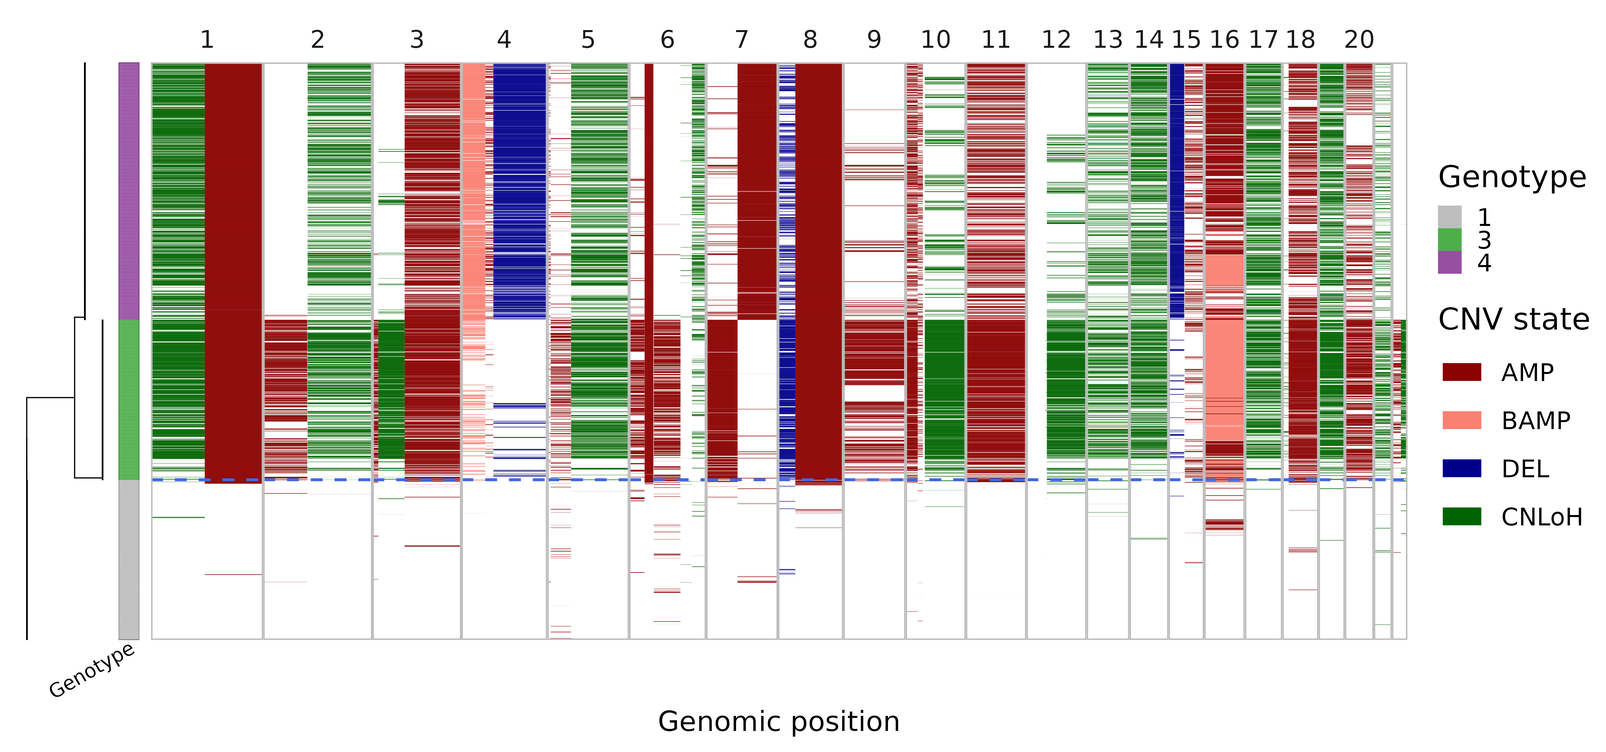
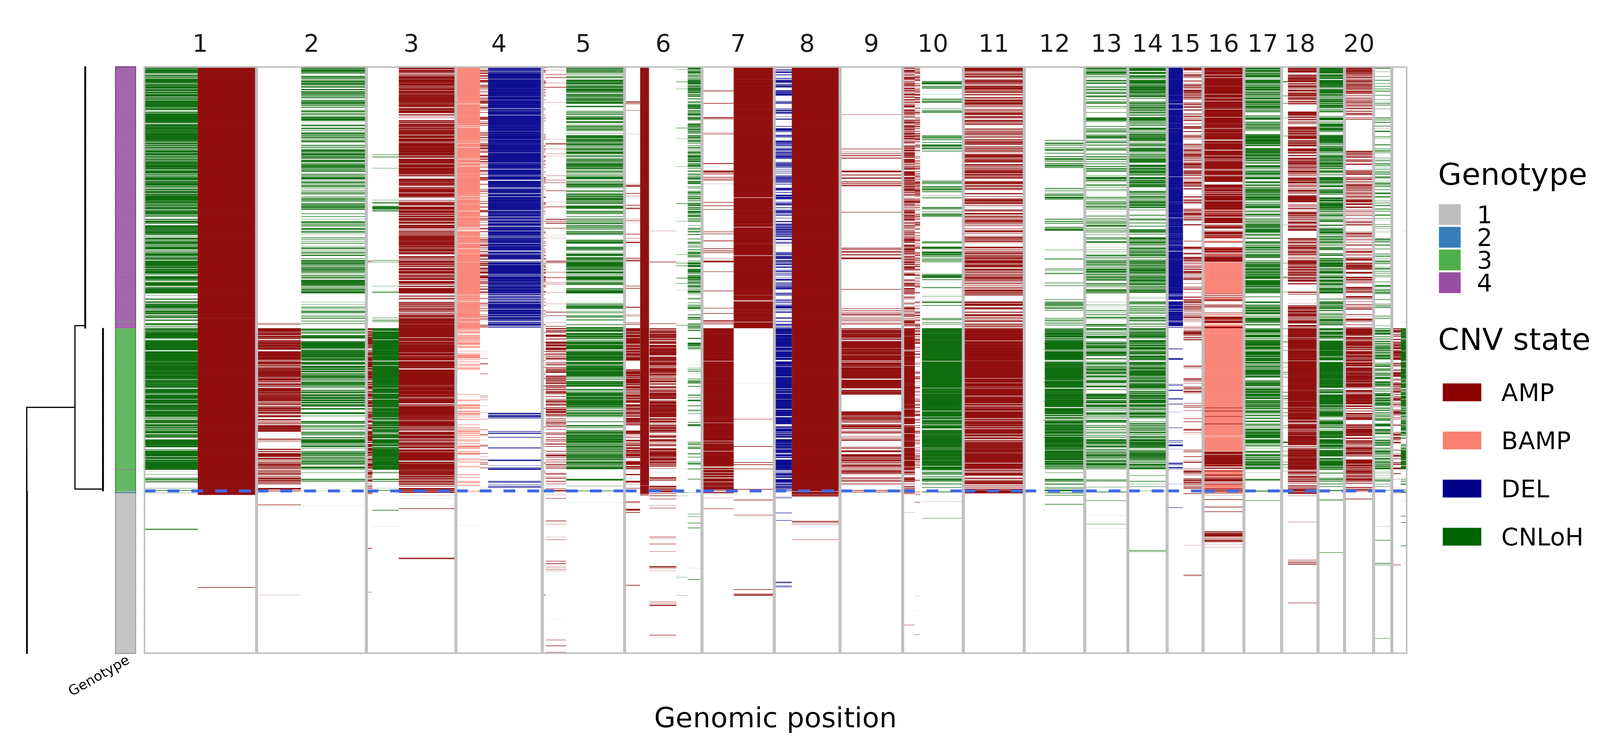
adding cutree

diff --git a/docs/articles/results.html b/docs/articles/results.html
@@ -120,42 +120,62 @@
 <span>  p_min <span class="op">=</span> <span class="fl">0.9</span>,</span>
 <span>  pal_clone <span class="op">=</span> <span class="va">mypal</span></span>
 <span><span class="op">)</span></span></code></pre></div>
-<p><img src="results_files/figure-html/unnamed-chunk-5-1.png" width="2400"> In this visualization, the single-cell phylogeny (left) is juxtaposed with a heatmap of single-cell CNV calls (right). The CNV calls are colored by the type of alterations (AMP, amplification, BAMP, balanced amplification, DEL, deletion, CNLoH, copy-neutral loss of heterozygosity). The colorbar in-between differentiates the distinct genetic populations (genotype). The dashed blue line separates the predicted tumor versus normal cells. This tells us that the dataset mainly consists of three cell populations, a normal population (gray) and two tumor subclones (green and yellow).</p>
+<p><img src="results_files/figure-html/unnamed-chunk-5-1.png" width="2400"> In this visualization, the single-cell phylogeny (left) is juxtaposed with a heatmap of single-cell CNV calls (right). The CNV calls are colored by the type of alterations (AMP, amplification, BAMP, balanced amplification, DEL, deletion, CNLoH, copy-neutral loss of heterozygosity). The colorbar in-between differentiates the distinct genetic populations (genotype). The dashed blue line separates the predicted tumor versus normal cells. This tells us that the dataset mainly consists of three cell populations, a normal population (gray) and two tumor subclones (green and purple).</p>
+<div class="section level3">
+<h3 id="refine-subclones-on-the-phylogeny">Refine subclones on the phylogeny<a class="anchor" aria-label="anchor" href="#refine-subclones-on-the-phylogeny"></a>
+</h3>
+<p>Note that the number of subclones determined by the initial run parameters in <code>run_numbat</code> can be re-adjusted using <code>nb$cutree()</code>:</p>
+<div class="sourceCode" id="cb5"><pre class="downlit sourceCode r">
+<code class="sourceCode R"><span><span class="va">plots</span> <span class="op">=</span> <span class="fu"><a href="https://rdrr.io/r/base/lapply.html" class="external-link">lapply</a></span><span class="op">(</span></span>
+<span>    <span class="fl">1</span><span class="op">:</span><span class="fl">4</span>,</span>
+<span>    <span class="kw">function</span><span class="op">(</span><span class="va">k</span><span class="op">)</span> <span class="op">{</span></span>
+<span>        <span class="va">nb</span><span class="op">$</span><span class="fu">cutree</span><span class="op">(</span>n_cut <span class="op">=</span> <span class="va">k</span><span class="op">)</span></span>
+<span>        <span class="va">nb</span><span class="op">$</span><span class="fu">plot_phylo_heatmap</span><span class="op">(</span><span class="op">)</span> <span class="op">+</span> <span class="fu"><a href="https://ggplot2.tidyverse.org/reference/labs.html" class="external-link">ggtitle</a></span><span class="op">(</span><span class="fu"><a href="https://rdrr.io/r/base/paste.html" class="external-link">paste0</a></span><span class="op">(</span><span class="st">'n_cut='</span>, <span class="va">k</span><span class="op">)</span><span class="op">)</span></span>
+<span>    <span class="op">}</span></span>
+<span><span class="op">)</span></span>
+<span></span>
+<span><span class="fu"><a href="https://patchwork.data-imaginist.com/reference/wrap_plots.html" class="external-link">wrap_plots</a></span><span class="op">(</span><span class="va">plots</span><span class="op">)</span></span></code></pre></div>
+<p><img src="results_files/figure-html/unnamed-chunk-6-1.png" width="2500"></p>
+<p>In <code>cutree</code> one can either specify <code>n_cut</code> or <code>max_cost</code>, which work similarly as <code>k</code> and <code>h</code> in <code><a href="https://rdrr.io/r/stats/cutree.html" class="external-link">stats::cutree</a></code>. Note that <code>n</code> cuts should result in <code>n+1</code> clones (the top-level normal diploid clone is always included). First cut should separate out the tumor cells as a single clone, second cut gives two tumor subclones, and so on. Alternatively, one can specify a <code>max_cost</code>, which is the maximum likelihood cost threshold with which to reduce the phylogeny (higher <code>max_cost</code> leads to fewer clones).</p>
+<div class="sourceCode" id="cb6"><pre class="downlit sourceCode r">
+<code class="sourceCode R"><span><span class="co"># restore to original number of cuts</span></span>
+<span><span class="va">nb</span><span class="op">$</span><span class="fu">cutree</span><span class="op">(</span>n_cut <span class="op">=</span> <span class="fl">3</span><span class="op">)</span></span></code></pre></div>
+</div>
 </div>
 <div class="section level2">
 <h2 id="consensus-copy-number-segments">Consensus copy number segments<a class="anchor" aria-label="anchor" href="#consensus-copy-number-segments"></a>
 </h2>
 <p>Let’s take a look at the consensus segments.</p>
-<div class="sourceCode" id="cb5"><pre class="downlit sourceCode r">
+<div class="sourceCode" id="cb7"><pre class="downlit sourceCode r">
 <code class="sourceCode R"><span><span class="va">nb</span><span class="op">$</span><span class="fu">plot_consensus</span><span class="op">(</span><span class="op">)</span></span></code></pre></div>
-<p><img src="results_files/figure-html/unnamed-chunk-6-1.png" width="4200"></p>
+<p><img src="results_files/figure-html/unnamed-chunk-8-1.png" width="4200"></p>
 </div>
 <div class="section level2">
 <h2 id="bulk-cnv-profiles">Bulk CNV profiles<a class="anchor" aria-label="anchor" href="#bulk-cnv-profiles"></a>
 </h2>
 <p>We can also visualize these CNV events in pseudobulks where the data is more rich, aggregating cells by clone:</p>
-<div class="sourceCode" id="cb6"><pre class="downlit sourceCode r">
+<div class="sourceCode" id="cb8"><pre class="downlit sourceCode r">
 <code class="sourceCode R"><span><span class="va">nb</span><span class="op">$</span><span class="va">bulk_clones</span> <span class="op"><a href="https://magrittr.tidyverse.org/reference/pipe.html" class="external-link">%&gt;%</a></span> </span>
 <span>  <span class="fu"><a href="https://dplyr.tidyverse.org/reference/filter.html" class="external-link">filter</a></span><span class="op">(</span><span class="va">n_cells</span> <span class="op">&gt;</span> <span class="fl">50</span><span class="op">)</span> <span class="op"><a href="https://magrittr.tidyverse.org/reference/pipe.html" class="external-link">%&gt;%</a></span></span>
 <span>  <span class="fu"><a href="../reference/plot_bulks.html">plot_bulks</a></span><span class="op">(</span></span>
 <span>    min_LLR <span class="op">=</span> <span class="fl">10</span>, <span class="co"># filtering CNVs by evidence</span></span>
 <span>    legend <span class="op">=</span> <span class="cn">TRUE</span></span>
 <span>  <span class="op">)</span></span></code></pre></div>
-<p><img src="results_files/figure-html/unnamed-chunk-7-1.png" width="3900"></p>
+<p><img src="results_files/figure-html/unnamed-chunk-9-1.png" width="3900"></p>
 </div>
 <div class="section level2">
 <h2 id="single-cell-cnv-calls">Single-cell CNV calls<a class="anchor" aria-label="anchor" href="#single-cell-cnv-calls"></a>
 </h2>
 <p>Numbat probabilistically evaluates the presence/absence of CNVs in single cells. The cell-level CNV posteriors are stored in the <code>nb$joint_post</code> dataframe:</p>
-<div class="sourceCode" id="cb7"><pre class="downlit sourceCode r">
+<div class="sourceCode" id="cb9"><pre class="downlit sourceCode r">
 <code class="sourceCode R"><span><span class="fu"><a href="https://rdrr.io/r/utils/head.html" class="external-link">head</a></span><span class="op">(</span><span class="va">nb</span><span class="op">$</span><span class="va">joint_post</span><span class="op">)</span> <span class="op"><a href="https://magrittr.tidyverse.org/reference/pipe.html" class="external-link">%&gt;%</a></span> <span class="fu"><a href="https://dplyr.tidyverse.org/reference/select.html" class="external-link">select</a></span><span class="op">(</span><span class="va">cell</span>, <span class="va">CHROM</span>, <span class="va">seg</span>, <span class="va">cnv_state</span>, <span class="va">p_cnv</span>, <span class="va">p_cnv_x</span>, <span class="va">p_cnv_y</span><span class="op">)</span></span></code></pre></div>
 <pre><code><span><span class="co">##                        cell CHROM seg cnv_state        p_cnv     p_cnv_x</span></span>
 <span><span class="co">## 1: TNBC1_AAACCTGCACCTTGTC-1     1  1b       amp 0.9999999997 1.000000000</span></span>
 <span><span class="co">## 2: TNBC1_AAACCTGCACCTTGTC-1     2  2a       amp 0.0002288397 0.001172894</span></span>
 <span><span class="co">## 3: TNBC1_AAACCTGCACCTTGTC-1     3  3a       amp 0.0522751360 0.052273344</span></span>
-<span><span class="co">## 4: TNBC1_AAACCTGCACCTTGTC-1     3  3c       amp 0.9147696619 0.982278728</span></span>
+<span><span class="co">## 4: TNBC1_AAACCTGCACCTTGTC-1     3  3c       amp 0.9147696618 0.982278728</span></span>
 <span><span class="co">## 5: TNBC1_AAACCTGCACCTTGTC-1     4  4b       amp 0.8999658266 0.845619643</span></span>
-<span><span class="co">## 6: TNBC1_AAACCTGCACCTTGTC-1     5  5a       amp 0.8070027728 0.778074329</span></span>
+<span><span class="co">## 6: TNBC1_AAACCTGCACCTTGTC-1     5  5a       amp 0.8070027725 0.778074328</span></span>
 <span><span class="co">##       p_cnv_y</span></span>
 <span><span class="co">## 1: 0.03844235</span></span>
 <span><span class="co">## 2: 0.09821435</span></span>
@@ -164,7 +184,7 @@
 <span><span class="co">## 5: 0.61862288</span></span>
 <span><span class="co">## 6: 0.53344303</span></span></code></pre>
 <p>which contains cell-level information on specific CNV segments (<code>seg</code>), their alteration type (<code>cnv_state</code>), the joint posterior probability of the CNV (<code>p_cnv</code>), the expression-based posterior (<code>p_cnv_x</code>), and the allele-based posterior (<code>p_cnv_y</code>). We can visualize the event-specific posteriors in a expression-based tSNE embedding:</p>
-<div class="sourceCode" id="cb9"><pre class="downlit sourceCode r">
+<div class="sourceCode" id="cb11"><pre class="downlit sourceCode r">
 <code class="sourceCode R"><span><span class="va">plist</span> <span class="op">=</span> <span class="fu"><a href="https://rdrr.io/r/base/list.html" class="external-link">list</a></span><span class="op">(</span><span class="op">)</span></span>
 <span><span class="va">muts</span> <span class="op">=</span> <span class="fu"><a href="https://rdrr.io/r/base/c.html" class="external-link">c</a></span><span class="op">(</span><span class="st">'1a'</span>, <span class="st">'3b'</span>, <span class="st">'22b'</span><span class="op">)</span></span>
 <span><span class="va">cnv_type</span> <span class="op">=</span> <span class="va">nb</span><span class="op">$</span><span class="va">joint_post</span> <span class="op"><a href="https://magrittr.tidyverse.org/reference/pipe.html" class="external-link">%&gt;%</a></span> <span class="fu"><a href="https://dplyr.tidyverse.org/reference/distinct.html" class="external-link">distinct</a></span><span class="op">(</span><span class="va">seg</span>, <span class="va">cnv_state</span><span class="op">)</span> <span class="op"><a href="https://magrittr.tidyverse.org/reference/pipe.html" class="external-link">%&gt;%</a></span> <span class="op">{</span><span class="fu"><a href="https://rdrr.io/r/stats/setNames.html" class="external-link">setNames</a></span><span class="op">(</span><span class="va">.</span><span class="op">$</span><span class="va">cnv_state</span>, <span class="va">.</span><span class="op">$</span><span class="va">seg</span><span class="op">)</span><span class="op">}</span></span>
@@ -185,30 +205,30 @@
 <span>    <span class="fu"><a href="https://ggplot2.tidyverse.org/reference/scale_gradient.html" class="external-link">scale_color_gradient2</a></span><span class="op">(</span>low <span class="op">=</span> <span class="st">'royalblue'</span>, mid <span class="op">=</span> <span class="st">'white'</span>, high <span class="op">=</span> <span class="st">'red3'</span>, midpoint <span class="op">=</span> <span class="fl">0.5</span>, limits <span class="op">=</span> <span class="fu"><a href="https://rdrr.io/r/base/c.html" class="external-link">c</a></span><span class="op">(</span><span class="fl">0</span>,<span class="fl">1</span><span class="op">)</span>, name <span class="op">=</span> <span class="st">'Posterior'</span><span class="op">)</span></span>
 <span><span class="op">}</span></span>
 <span><span class="fu"><a href="https://patchwork.data-imaginist.com/reference/wrap_plots.html" class="external-link">wrap_plots</a></span><span class="op">(</span><span class="va">plist</span>, guides <span class="op">=</span> <span class="st">'collect'</span><span class="op">)</span></span></code></pre></div>
-<p><img src="results_files/figure-html/unnamed-chunk-9-1.png" width="2700"></p>
+<p><img src="results_files/figure-html/unnamed-chunk-11-1.png" width="2700"></p>
 </div>
 <div class="section level2">
 <h2 id="clonal-assignments">Clonal assignments<a class="anchor" aria-label="anchor" href="#clonal-assignments"></a>
 </h2>
 <p>Numbat aggregates signals across subclone-specific CNVs to probabilistically assign cells to subclones. The information regarding clonal assignments are contained in the <code>nb$clone_post</code> dataframe.</p>
-<div class="sourceCode" id="cb10"><pre class="downlit sourceCode r">
-<code class="sourceCode R"><span><span class="va">nb</span><span class="op">$</span><span class="va">clone_post</span> <span class="op"><a href="https://magrittr.tidyverse.org/reference/pipe.html" class="external-link">%&gt;%</a></span> <span class="fu"><a href="https://rdrr.io/r/utils/head.html" class="external-link">head</a></span><span class="op">(</span><span class="op">)</span> <span class="op"><a href="https://magrittr.tidyverse.org/reference/pipe.html" class="external-link">%&gt;%</a></span> <span class="fu"><a href="https://dplyr.tidyverse.org/reference/select.html" class="external-link">select</a></span><span class="op">(</span><span class="va">cell</span>, <span class="va">clone_opt</span>, <span class="va">p_1</span>, <span class="va">p_2</span>, <span class="va">p_3</span>, <span class="va">p_4</span><span class="op">)</span></span></code></pre></div>
-<pre><code><span><span class="co">##                        cell clone_opt           p_1          p_2          p_3</span></span>
-<span><span class="co">## 1: TNBC1_AAACCTGCACCTTGTC-1         4  1.162495e-72 2.105425e-20 3.478936e-29</span></span>
-<span><span class="co">## 2: TNBC1_AAACGGGAGTCCTCCT-1         1  1.000000e+00 5.814741e-51 5.920463e-95</span></span>
-<span><span class="co">## 3: TNBC1_AAACGGGTCCAGAGGA-1         4 2.434561e-100 2.175022e-14 2.085718e-30</span></span>
-<span><span class="co">## 4: TNBC1_AAAGATGCAGTTTACG-1         3  2.020088e-23 8.164920e-04 9.913458e-01</span></span>
-<span><span class="co">## 5: TNBC1_AAAGCAACAGGAATGC-1         4  9.546322e-64 4.989037e-11 1.657378e-31</span></span>
-<span><span class="co">## 6: TNBC1_AAAGCAATCGGAATCT-1         3  1.516589e-99 8.466806e-33 1.000000e+00</span></span>
-<span><span class="co">##             p_4</span></span>
-<span><span class="co">## 1: 1.000000e+00</span></span>
-<span><span class="co">## 2: 8.821035e-66</span></span>
-<span><span class="co">## 3: 1.000000e+00</span></span>
-<span><span class="co">## 4: 7.837745e-03</span></span>
-<span><span class="co">## 5: 1.000000e+00</span></span>
-<span><span class="co">## 6: 2.457592e-29</span></span></code></pre>
-<p>Here <code>clone_opt</code> denotes the maximum likelihood assignment of a cell to a specific clone. <code>p_{1..4}</code> are the detailed breakdown of the posterior probability that the cell belongs to each clone, respectively. Let’s visualize the clonal decomposition in a tSNE embedding. Note that clone 1 is always the normal cells.</p>
 <div class="sourceCode" id="cb12"><pre class="downlit sourceCode r">
+<code class="sourceCode R"><span><span class="va">nb</span><span class="op">$</span><span class="va">clone_post</span> <span class="op"><a href="https://magrittr.tidyverse.org/reference/pipe.html" class="external-link">%&gt;%</a></span> <span class="fu"><a href="https://rdrr.io/r/utils/head.html" class="external-link">head</a></span><span class="op">(</span><span class="op">)</span> <span class="op"><a href="https://magrittr.tidyverse.org/reference/pipe.html" class="external-link">%&gt;%</a></span> <span class="fu"><a href="https://dplyr.tidyverse.org/reference/select.html" class="external-link">select</a></span><span class="op">(</span><span class="va">cell</span>, <span class="va">clone_opt</span>, <span class="va">p_1</span>, <span class="va">p_2</span>, <span class="va">p_3</span>, <span class="va">p_4</span><span class="op">)</span></span></code></pre></div>
+<pre><code><span><span class="co">##                       cell clone_opt           p_1          p_2          p_3</span></span>
+<span><span class="co">## 1 TNBC1_AAACCTGCACCTTGTC-1         4  1.162495e-72 2.105425e-20 3.478936e-29</span></span>
+<span><span class="co">## 2 TNBC1_AAACGGGAGTCCTCCT-1         1  1.000000e+00 5.814741e-51 5.920463e-95</span></span>
+<span><span class="co">## 3 TNBC1_AAACGGGTCCAGAGGA-1         4 2.434561e-100 2.175022e-14 2.085718e-30</span></span>
+<span><span class="co">## 4 TNBC1_AAAGATGCAGTTTACG-1         3  2.020088e-23 8.164920e-04 9.913458e-01</span></span>
+<span><span class="co">## 5 TNBC1_AAAGCAACAGGAATGC-1         4  9.546324e-64 4.989037e-11 1.657378e-31</span></span>
+<span><span class="co">## 6 TNBC1_AAAGCAATCGGAATCT-1         3  1.516589e-99 8.466806e-33 1.000000e+00</span></span>
+<span><span class="co">##            p_4</span></span>
+<span><span class="co">## 1 1.000000e+00</span></span>
+<span><span class="co">## 2 8.821034e-66</span></span>
+<span><span class="co">## 3 1.000000e+00</span></span>
+<span><span class="co">## 4 7.837745e-03</span></span>
+<span><span class="co">## 5 1.000000e+00</span></span>
+<span><span class="co">## 6 2.457592e-29</span></span></code></pre>
+<p>Here <code>clone_opt</code> denotes the maximum likelihood assignment of a cell to a specific clone. <code>p_{1..4}</code> are the detailed breakdown of the posterior probability that the cell belongs to each clone, respectively. Let’s visualize the clonal decomposition in a tSNE embedding. Note that clone 1 is always the normal cells.</p>
+<div class="sourceCode" id="cb14"><pre class="downlit sourceCode r">
 <code class="sourceCode R"><span><span class="va">pagoda</span><span class="op">$</span><span class="fu">plotEmbedding</span><span class="op">(</span></span>
 <span>    alpha<span class="op">=</span><span class="fl">0.8</span>,</span>
 <span>    size<span class="op">=</span><span class="fl">1</span>, </span>
@@ -219,13 +239,13 @@
 <span>    title <span class="op">=</span> <span class="st">'Genotypes'</span>,</span>
 <span>    pal <span class="op">=</span> <span class="va">mypal</span></span>
 <span><span class="op">)</span></span></code></pre></div>
-<p><img src="results_files/figure-html/unnamed-chunk-11-1.png" width="900"></p>
+<p><img src="results_files/figure-html/unnamed-chunk-13-1.png" width="900"></p>
 </div>
 <div class="section level2">
 <h2 id="tumor-versus-normal-probability">Tumor versus normal probability<a class="anchor" aria-label="anchor" href="#tumor-versus-normal-probability"></a>
 </h2>
 <p>Combining evidence from all CNVs, Numbat derives an aneuploidy probability for each cell to distinguish tumor versus normal cells. We can visualize the posterior aneuploidy probability based on expression evidence only, allele evidence only, and jointly:</p>
-<div class="sourceCode" id="cb13"><pre class="downlit sourceCode r">
+<div class="sourceCode" id="cb15"><pre class="downlit sourceCode r">
 <code class="sourceCode R"><span><span class="va">p_joint</span> <span class="op">=</span> <span class="va">pagoda</span><span class="op">$</span><span class="fu">plotEmbedding</span><span class="op">(</span></span>
 <span>    alpha<span class="op">=</span><span class="fl">0.8</span>,</span>
 <span>    size<span class="op">=</span><span class="fl">1</span>, </span>
@@ -258,13 +278,13 @@
 <span><span class="op">)</span> <span class="op">+</span></span>
 <span><span class="fu"><a href="https://ggplot2.tidyverse.org/reference/scale_gradient.html" class="external-link">scale_color_gradient2</a></span><span class="op">(</span>low <span class="op">=</span> <span class="st">'royalblue'</span>, mid <span class="op">=</span> <span class="st">'white'</span>, high <span class="op">=</span> <span class="st">'red3'</span>, midpoint <span class="op">=</span> <span class="fl">0.5</span>, name <span class="op">=</span> <span class="st">'Posterior'</span><span class="op">)</span></span>
 <span><span class="op">(</span><span class="va">p_expr</span> <span class="op">|</span> <span class="va">p_allele</span> <span class="op">|</span> <span class="va">p_joint</span><span class="op">)</span> <span class="op">+</span> <span class="fu"><a href="https://patchwork.data-imaginist.com/reference/plot_layout.html" class="external-link">plot_layout</a></span><span class="op">(</span>guides <span class="op">=</span> <span class="st">'collect'</span><span class="op">)</span></span></code></pre></div>
-<p><img src="results_files/figure-html/unnamed-chunk-12-1.png" width="2700"> Both expression and allele signal clearly separate the tumor and normal cells.</p>
+<p><img src="results_files/figure-html/unnamed-chunk-14-1.png" width="2700"> Both expression and allele signal clearly separate the tumor and normal cells.</p>
 </div>
 <div class="section level2">
 <h2 id="tumor-phylogeny">Tumor phylogeny<a class="anchor" aria-label="anchor" href="#tumor-phylogeny"></a>
 </h2>
 <p>Let’s take a closer look at the inferred single cell phylogeny and where the mutations occurred.</p>
-<div class="sourceCode" id="cb14"><pre class="downlit sourceCode r">
+<div class="sourceCode" id="cb16"><pre class="downlit sourceCode r">
 <code class="sourceCode R"><span><span class="va">nb</span><span class="op">$</span><span class="fu">plot_sc_tree</span><span class="op">(</span></span>
 <span>  label_size <span class="op">=</span> <span class="fl">3</span>, </span>
 <span>  branch_width <span class="op">=</span> <span class="fl">0.5</span>, </span>
@@ -272,10 +292,10 @@
 <span>  pal_clone <span class="op">=</span> <span class="va">mypal</span>, </span>
 <span>  tip <span class="op">=</span> <span class="cn">TRUE</span></span>
 <span><span class="op">)</span></span></code></pre></div>
-<p><img src="results_files/figure-html/unnamed-chunk-13-1.png" width="1800"> The mutational history can also be represented on the clone level, where cells with the same genotype are aggregated into one node.</p>
-<div class="sourceCode" id="cb15"><pre class="downlit sourceCode r">
+<p><img src="results_files/figure-html/unnamed-chunk-15-1.png" width="1800"> The mutational history can also be represented on the clone level, where cells with the same genotype are aggregated into one node.</p>
+<div class="sourceCode" id="cb17"><pre class="downlit sourceCode r">
 <code class="sourceCode R"><span><span class="va">nb</span><span class="op">$</span><span class="fu">plot_mut_history</span><span class="op">(</span>pal <span class="op">=</span> <span class="va">mypal</span><span class="op">)</span></span></code></pre></div>
-<p><img src="results_files/figure-html/unnamed-chunk-14-1.png" width="1800"></p>
+<p><img src="results_files/figure-html/unnamed-chunk-16-1.png" width="1800"></p>
 </div>
   </main><aside class="col-md-3"><nav id="toc"><h2>On this page</h2>
     </nav></aside>

diff --git a/docs/reference/get_gtree.html b/docs/reference/get_gtree.html
@@ -1,5 +1,17 @@
 <!DOCTYPE html>
-<!-- Generated by pkgdown: do not edit by hand --><html lang="en"><head><meta http-equiv="Content-Type" content="text/html; charset=UTF-8"><meta charset="utf-8"><meta http-equiv="X-UA-Compatible" content="IE=edge"><meta name="viewport" content="width=device-width, initial-scale=1, shrink-to-fit=no"><meta name="description" content="Get a tidygraph tree with simplified mutational history"><title>Get a tidygraph tree with simplified mutational history — get_gtree • numbat</title><!-- favicons --><link rel="icon" type="image/png" sizes="16x16" href="../favicon-16x16.png"><link rel="icon" type="image/png" sizes="32x32" href="../favicon-32x32.png"><link rel="apple-touch-icon" type="image/png" sizes="180x180" href="../apple-touch-icon.png"><link rel="apple-touch-icon" type="image/png" sizes="120x120" href="../apple-touch-icon-120x120.png"><link rel="apple-touch-icon" type="image/png" sizes="76x76" href="../apple-touch-icon-76x76.png"><link rel="apple-touch-icon" type="image/png" sizes="60x60" href="../apple-touch-icon-60x60.png"><script src="../deps/jquery-3.6.0/jquery-3.6.0.min.js"></script><meta name="viewport" content="width=device-width, initial-scale=1, shrink-to-fit=no"><link href="../deps/bootstrap-5.2.2/bootstrap.min.css" rel="stylesheet"><script src="../deps/bootstrap-5.2.2/bootstrap.bundle.min.js"></script><!-- Font Awesome icons --><link rel="stylesheet" href="https://cdnjs.cloudflare.com/ajax/libs/font-awesome/5.12.1/css/all.min.css" integrity="sha256-mmgLkCYLUQbXn0B1SRqzHar6dCnv9oZFPEC1g1cwlkk=" crossorigin="anonymous"><link rel="stylesheet" href="https://cdnjs.cloudflare.com/ajax/libs/font-awesome/5.12.1/css/v4-shims.min.css" integrity="sha256-wZjR52fzng1pJHwx4aV2AO3yyTOXrcDW7jBpJtTwVxw=" crossorigin="anonymous"><!-- bootstrap-toc --><script src="https://cdn.jsdelivr.net/gh/afeld/bootstrap-toc@v1.0.1/dist/bootstrap-toc.min.js" integrity="sha256-4veVQbu7//Lk5TSmc7YV48MxtMy98e26cf5MrgZYnwo=" crossorigin="anonymous"></script><!-- headroom.js --><script src="https://cdnjs.cloudflare.com/ajax/libs/headroom/0.11.0/headroom.min.js" integrity="sha256-AsUX4SJE1+yuDu5+mAVzJbuYNPHj/WroHuZ8Ir/CkE0=" crossorigin="anonymous"></script><script src="https://cdnjs.cloudflare.com/ajax/libs/headroom/0.11.0/jQuery.headroom.min.js" integrity="sha256-ZX/yNShbjqsohH1k95liqY9Gd8uOiE1S4vZc+9KQ1K4=" crossorigin="anonymous"></script><!-- clipboard.js --><script src="https://cdnjs.cloudflare.com/ajax/libs/clipboard.js/2.0.6/clipboard.min.js" integrity="sha256-inc5kl9MA1hkeYUt+EC3BhlIgyp/2jDIyBLS6k3UxPI=" crossorigin="anonymous"></script><!-- search --><script src="https://cdnjs.cloudflare.com/ajax/libs/fuse.js/6.4.6/fuse.js" integrity="sha512-zv6Ywkjyktsohkbp9bb45V6tEMoWhzFzXis+LrMehmJZZSys19Yxf1dopHx7WzIKxr5tK2dVcYmaCk2uqdjF4A==" crossorigin="anonymous"></script><script src="https://cdnjs.cloudflare.com/ajax/libs/autocomplete.js/0.38.0/autocomplete.jquery.min.js" integrity="sha512-GU9ayf+66Xx2TmpxqJpliWbT5PiGYxpaG8rfnBEk1LL8l1KGkRShhngwdXK1UgqhAzWpZHSiYPc09/NwDQIGyg==" crossorigin="anonymous"></script><script src="https://cdnjs.cloudflare.com/ajax/libs/mark.js/8.11.1/mark.min.js" integrity="sha512-5CYOlHXGh6QpOFA/TeTylKLWfB3ftPsde7AnmhuitiTX4K5SqCLBeKro6sPS8ilsz1Q4NRx3v8Ko2IBiszzdww==" crossorigin="anonymous"></script><!-- pkgdown --><script src="../pkgdown.js"></script><meta property="og:title" content="Get a tidygraph tree with simplified mutational history — get_gtree"><meta property="og:description" content="Get a tidygraph tree with simplified mutational history"><meta property="og:image" content="https://kharchenkolab.github.io/numbat/logo.png"><meta name="google-site-verification" content="GE78cdBqx5YPEbHjqtohe_p51Ng8oEPXdcaSEIu2dP8"><!-- mathjax --><script src="https://cdnjs.cloudflare.com/ajax/libs/mathjax/2.7.5/MathJax.js" integrity="sha256-nvJJv9wWKEm88qvoQl9ekL2J+k/RWIsaSScxxlsrv8k=" crossorigin="anonymous"></script><script src="https://cdnjs.cloudflare.com/ajax/libs/mathjax/2.7.5/config/TeX-AMS-MML_HTMLorMML.js" integrity="sha256-84DKXVJXs0/F8OTMzX4UR909+jtl4G7SPypPavF+GfA=" crossorigin="anonymous"></script><!--[if lt IE 9]>
+<!-- Generated by pkgdown: do not edit by hand --><html lang="en"><head><meta http-equiv="Content-Type" content="text/html; charset=UTF-8"><meta charset="utf-8"><meta http-equiv="X-UA-Compatible" content="IE=edge"><meta name="viewport" content="width=device-width, initial-scale=1, shrink-to-fit=no"><meta name="description" content="Get a tidygraph tree with simplified mutational history. 
+Specify either max_cost or n_cut. 
+max_cost works similarly as h and n_cut works similarly as k in stats::cutree.
+The top-level normal diploid clone is always included."><title>Get a tidygraph tree with simplified mutational history. 
+Specify either max_cost or n_cut. 
+max_cost works similarly as h and n_cut works similarly as k in stats::cutree.
+The top-level normal diploid clone is always included. — get_gtree • numbat</title><!-- favicons --><link rel="icon" type="image/png" sizes="16x16" href="../favicon-16x16.png"><link rel="icon" type="image/png" sizes="32x32" href="../favicon-32x32.png"><link rel="apple-touch-icon" type="image/png" sizes="180x180" href="../apple-touch-icon.png"><link rel="apple-touch-icon" type="image/png" sizes="120x120" href="../apple-touch-icon-120x120.png"><link rel="apple-touch-icon" type="image/png" sizes="76x76" href="../apple-touch-icon-76x76.png"><link rel="apple-touch-icon" type="image/png" sizes="60x60" href="../apple-touch-icon-60x60.png"><script src="../deps/jquery-3.6.0/jquery-3.6.0.min.js"></script><meta name="viewport" content="width=device-width, initial-scale=1, shrink-to-fit=no"><link href="../deps/bootstrap-5.2.2/bootstrap.min.css" rel="stylesheet"><script src="../deps/bootstrap-5.2.2/bootstrap.bundle.min.js"></script><!-- Font Awesome icons --><link rel="stylesheet" href="https://cdnjs.cloudflare.com/ajax/libs/font-awesome/5.12.1/css/all.min.css" integrity="sha256-mmgLkCYLUQbXn0B1SRqzHar6dCnv9oZFPEC1g1cwlkk=" crossorigin="anonymous"><link rel="stylesheet" href="https://cdnjs.cloudflare.com/ajax/libs/font-awesome/5.12.1/css/v4-shims.min.css" integrity="sha256-wZjR52fzng1pJHwx4aV2AO3yyTOXrcDW7jBpJtTwVxw=" crossorigin="anonymous"><!-- bootstrap-toc --><script src="https://cdn.jsdelivr.net/gh/afeld/bootstrap-toc@v1.0.1/dist/bootstrap-toc.min.js" integrity="sha256-4veVQbu7//Lk5TSmc7YV48MxtMy98e26cf5MrgZYnwo=" crossorigin="anonymous"></script><!-- headroom.js --><script src="https://cdnjs.cloudflare.com/ajax/libs/headroom/0.11.0/headroom.min.js" integrity="sha256-AsUX4SJE1+yuDu5+mAVzJbuYNPHj/WroHuZ8Ir/CkE0=" crossorigin="anonymous"></script><script src="https://cdnjs.cloudflare.com/ajax/libs/headroom/0.11.0/jQuery.headroom.min.js" integrity="sha256-ZX/yNShbjqsohH1k95liqY9Gd8uOiE1S4vZc+9KQ1K4=" crossorigin="anonymous"></script><!-- clipboard.js --><script src="https://cdnjs.cloudflare.com/ajax/libs/clipboard.js/2.0.6/clipboard.min.js" integrity="sha256-inc5kl9MA1hkeYUt+EC3BhlIgyp/2jDIyBLS6k3UxPI=" crossorigin="anonymous"></script><!-- search --><script src="https://cdnjs.cloudflare.com/ajax/libs/fuse.js/6.4.6/fuse.js" integrity="sha512-zv6Ywkjyktsohkbp9bb45V6tEMoWhzFzXis+LrMehmJZZSys19Yxf1dopHx7WzIKxr5tK2dVcYmaCk2uqdjF4A==" crossorigin="anonymous"></script><script src="https://cdnjs.cloudflare.com/ajax/libs/autocomplete.js/0.38.0/autocomplete.jquery.min.js" integrity="sha512-GU9ayf+66Xx2TmpxqJpliWbT5PiGYxpaG8rfnBEk1LL8l1KGkRShhngwdXK1UgqhAzWpZHSiYPc09/NwDQIGyg==" crossorigin="anonymous"></script><script src="https://cdnjs.cloudflare.com/ajax/libs/mark.js/8.11.1/mark.min.js" integrity="sha512-5CYOlHXGh6QpOFA/TeTylKLWfB3ftPsde7AnmhuitiTX4K5SqCLBeKro6sPS8ilsz1Q4NRx3v8Ko2IBiszzdww==" crossorigin="anonymous"></script><!-- pkgdown --><script src="../pkgdown.js"></script><meta property="og:title" content="Get a tidygraph tree with simplified mutational history. 
+Specify either max_cost or n_cut. 
+max_cost works similarly as h and n_cut works similarly as k in stats::cutree.
+The top-level normal diploid clone is always included. — get_gtree"><meta property="og:description" content="Get a tidygraph tree with simplified mutational history. 
+Specify either max_cost or n_cut. 
+max_cost works similarly as h and n_cut works similarly as k in stats::cutree.
+The top-level normal diploid clone is always included."><meta property="og:image" content="https://kharchenkolab.github.io/numbat/logo.png"><meta name="google-site-verification" content="GE78cdBqx5YPEbHjqtohe_p51Ng8oEPXdcaSEIu2dP8"><!-- mathjax --><script src="https://cdnjs.cloudflare.com/ajax/libs/mathjax/2.7.5/MathJax.js" integrity="sha256-nvJJv9wWKEm88qvoQl9ekL2J+k/RWIsaSScxxlsrv8k=" crossorigin="anonymous"></script><script src="https://cdnjs.cloudflare.com/ajax/libs/mathjax/2.7.5/config/TeX-AMS-MML_HTMLorMML.js" integrity="sha256-84DKXVJXs0/F8OTMzX4UR909+jtl4G7SPypPavF+GfA=" crossorigin="anonymous"></script><!--[if lt IE 9]>
 <script src="https://oss.maxcdn.com/html5shiv/3.7.3/html5shiv.min.js"></script>
 <script src="https://oss.maxcdn.com/respond/1.4.2/respond.min.js"></script>
 <![endif]--></head><body>
@@ -51,13 +63,19 @@
 </nav><div class="container template-reference-topic">
 <div class="row">
   <main id="main" class="col-md-9"><div class="page-header">
-      <img src="../logo.png" class="logo" alt=""><h1>Get a tidygraph tree with simplified mutational history</h1>
+      <img src="../logo.png" class="logo" alt=""><h1>Get a tidygraph tree with simplified mutational history. 
+Specify either max_cost or n_cut. 
+max_cost works similarly as h and n_cut works similarly as k in stats::cutree.
+The top-level normal diploid clone is always included.</h1>
       <small class="dont-index">Source: <a href="https://github.com/kharchenkolab/numbat/blob/HEAD/R/trees.R" class="external-link"><code>R/trees.R</code></a></small>
       <div class="d-none name"><code>get_gtree.Rd</code></div>
     </div>
 
     <div class="ref-description section level2">
-    <p>Get a tidygraph tree with simplified mutational history</p>
+    <p>Get a tidygraph tree with simplified mutational history. 
+Specify either max_cost or n_cut. 
+max_cost works similarly as h and n_cut works similarly as k in stats::cutree.
+The top-level normal diploid clone is always included.</p>
     </div>
 
     <div class="section level2">
@@ -76,7 +94,7 @@
 
 
 <dt>n_cut</dt>
-<dd><p>integer Number of cuts on the phylogeny (resulting in n_cut + 1 clones)</p></dd>
+<dd><p>integer Number of cuts on the phylogeny to define subclones</p></dd>
 
 
 <dt>max_cost</dt>

diff --git a/docs/reference/Numbat.html b/docs/reference/Numbat.html
@@ -148,6 +148,7 @@
 <li><p><a href="#method-Numbat-plot_sc_tree"><code>Numbat$plot_sc_tree()</code></a></p></li>
 <li><p><a href="#method-Numbat-plot_consensus"><code>Numbat$plot_consensus()</code></a></p></li>
 <li><p><a href="#method-Numbat-plot_clone_profile"><code>Numbat$plot_clone_profile()</code></a></p></li>
+<li><p><a href="#method-Numbat-cutree"><code>Numbat$cutree()</code></a></p></li>
 <li><p><a href="#method-Numbat-clone"><code>Numbat$clone()</code></a></p></li>
 </ul></div><p></p><hr><a id="method-Numbat-new"></a><div class="section">
 <h3 id="method-new-">Method <code>new()</code><a class="anchor" aria-label="anchor" href="#method-new-"></a></h3>
@@ -285,15 +286,35 @@
 </dl><p></p></div>
 </div>
 
-</div><p></p><hr><a id="method-Numbat-clone"></a><div class="section">
-<h3 id="method-clone-">Method <code>clone()</code><a class="anchor" aria-label="anchor" href="#method-clone-"></a></h3>
-<p>The objects of this class are cloneable with this method.</p><div class="section">
+</div><p></p><hr><a id="method-Numbat-cutree"></a><div class="section">
+<h3 id="method-cutree-">Method <code><a href="https://rdrr.io/r/stats/cutree.html" class="external-link">cutree()</a></code><a class="anchor" aria-label="anchor" href="#method-cutree-"></a></h3>
+<p>Re-define subclones on the phylogeny.</p><div class="section">
 <h4 id="usage-7">Usage<a class="anchor" aria-label="anchor" href="#usage-7"></a></h4>
-<p></p><div class="r"><div class="sourceCode"><pre><code><span><span class="va">Numbat</span><span class="op">$</span><span class="fu">clone</span><span class="op">(</span>deep <span class="op">=</span> <span class="cn">FALSE</span><span class="op">)</span></span></code></pre></div><p></p></div>
+<p></p><div class="r"><div class="sourceCode"><pre><code><span><span class="va">Numbat</span><span class="op">$</span><span class="fu">cutree</span><span class="op">(</span>max_cost <span class="op">=</span> <span class="fl">0</span>, n_cut <span class="op">=</span> <span class="fl">0</span><span class="op">)</span></span></code></pre></div><p></p></div>
 </div>
 
 <div class="section">
 <h4 id="arguments-7">Arguments<a class="anchor" aria-label="anchor" href="#arguments-7"></a></h4>
+<p></p><div class="arguments"><dl><dt><code>max_cost</code></dt>
+<dd><p>numeric Likelihood threshold to collapse internal branches</p></dd>
+
+
+<dt><code>n_cut</code></dt>
+<dd><p>integer Number of cuts on the phylogeny to define subclones</p></dd>
+
+
+</dl><p></p></div>
+</div>
+
+</div><p></p><hr><a id="method-Numbat-clone"></a><div class="section">
+<h3 id="method-clone-">Method <code>clone()</code><a class="anchor" aria-label="anchor" href="#method-clone-"></a></h3>
+<p>The objects of this class are cloneable with this method.</p><div class="section">
+<h4 id="usage-8">Usage<a class="anchor" aria-label="anchor" href="#usage-8"></a></h4>
+<p></p><div class="r"><div class="sourceCode"><pre><code><span><span class="va">Numbat</span><span class="op">$</span><span class="fu">clone</span><span class="op">(</span>deep <span class="op">=</span> <span class="cn">FALSE</span><span class="op">)</span></span></code></pre></div><p></p></div>
+</div>
+
+<div class="section">
+<h4 id="arguments-8">Arguments<a class="anchor" aria-label="anchor" href="#arguments-8"></a></h4>
 <p></p><div class="arguments"><dl><dt><code>deep</code></dt>
 <dd><p>Whether to make a deep clone.</p></dd>
 

diff --git a/docs/reference/index.html b/docs/reference/index.html
@@ -133,7 +133,10 @@ Rcommended for cell lines or tumor samples with no normal cells.</dd>
           
           <code><a href="get_gtree.html">get_gtree()</a></code> 
         </dt>
-        <dd>Get a tidygraph tree with simplified mutational history</dd>
+        <dd>Get a tidygraph tree with simplified mutational history. 
+Specify either max_cost or n_cut. 
+max_cost works similarly as h and n_cut works similarly as k in stats::cutree.
+The top-level normal diploid clone is always included.</dd>
       </dl><dl><dt>
           
           <code><a href="plot_bulks.html">plot_bulks()</a></code> 
